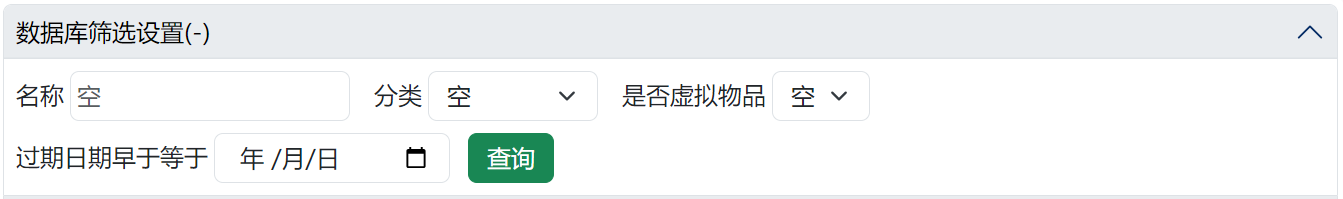
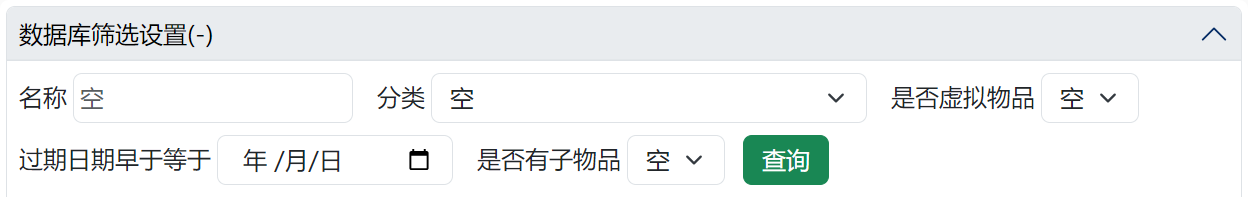
增加了筛选是否有子物品功能

diff --git a/templates/view_items.html b/templates/view_items.html
@@ -49,6 +49,18 @@
                         </div>
                         <div class="col-auto pe-4">
                             <div class="row">
+                                <label for="filter_has_child" class="col col-form-label p-1" data-i18n="filter_has_child">是否有子物品</label>
+                                <div class="col-auto p-0">
+                                    <select class="form-select pt-1 pb-1" id="filter_has_child">
+                                        <option value="-1" selected data-i18n="filter_null">空</option>
+                                        <option value="1" data-i18n="universal_yes">是</option>
+                                        <option value="0" data-i18n="universal_no">否</option>
+                                    </select>
+                                </div>
+                            </div>
+                        </div>
+                        <div class="col-auto pe-4">
+                            <div class="row">
                                 <button class="btn btn-success pt-1 pb-1" type="button" id="filter_db_select" data-i18n="filter_db_select">查询</button>
                             </div>
                         </div>

diff --git a/SQLs/items.py b/SQLs/items.py
@@ -85,23 +85,41 @@ def get_item(i_id):  # 获取物品信息
         return None
     
 
-def get_items_with_filter(name_like, i_class, is_virtual, expiration_time, classes=[]):  # 根据要求筛选符合的items
-    query = "SELECT id,name,class,properties,parent,img,comment,expiration_time FROM items WHERE 1=1"
+def get_items_with_filter(name_like, i_class, is_virtual, expiration_time, has_child, classes=[]):  # 根据要求筛选符合的items
+    query = """
+        SELECT 
+            items.id,
+            items.name,
+            items.class,
+            items.properties,
+            items.parent,
+            items.img,
+            items.comment,
+            items.expiration_time,
+            CASE WHEN father_info.father_id IS NOT NULL THEN 1 ELSE 0 END AS is_father
+        FROM items 
+        LEFT JOIN (
+            SELECT DISTINCT parent AS father_id FROM items
+        ) AS father_info ON items.id = father_info.father_id 
+        WHERE 1=1"""
     params = []
     if name_like != '':
-        query += ' AND name LIKE ?'
+        query += ' AND items.name LIKE ?'
         params.append(f'%{name_like}%')
     if i_class != '':
-        query += ' AND class=?'
+        query += ' AND items.class=?'
         params.append(i_class)
     if is_virtual != -1:
-        query += ' AND is_virtual=?'
+        query += ' AND items.is_virtual=?'
         params.append(is_virtual)
     if expiration_time != '':
-        query += " AND expiration_time<=? AND expiration_time<>''"
+        query += " AND items.expiration_time<=? AND items.expiration_time<>''"
         params.append(expiration_time)
+    if has_child != -1:
+        query += ' AND CASE WHEN father_info.father_id IS NOT NULL THEN 1 ELSE 0 END =?'
+        params.append(has_child)
     if len(classes) != 0:
-        query += ' ORDER BY CASE class'
+        query += ' ORDER BY CASE items.class'
         for class_index in range(len(classes)):
             query += f" WHEN '{classes[class_index]}' THEN {class_index+1}"
         query += ' ELSE 0 END'
@@ -118,7 +136,8 @@ def get_items_with_filter(name_like, i_class, is_virtual, expiration_time, class
                 'parent': i[4],
                 'img': i[5],
                 'comment': i[6],
-                'expiration_time': i[7]
+                'expiration_time': i[7],
+                'has_child': bool(i[8])
             }
         return ret
     except sqlite3.Error as e:

diff --git a/static/py/view_items.py b/static/py/view_items.py
@@ -19,14 +19,20 @@ def get_db_data():
     target_class = request.args.get('target_class', None)
     target_is_virtual = request.args.get('target_is_virtual', None)
     target_expiration_time = request.args.get('target_expiration_time', None)
-    if target_name is None or target_class is None or target_is_virtual is None or target_expiration_time is None:
+    target_has_child = request.args.get('target_has_child', None)
+    if target_name is None or target_class is None or target_is_virtual is None or target_expiration_time is None or target_has_child is None:
         return jsonify({'status': 'error','message': '缺失参数'})
     else:
         if target_class == '':  # 如果没有筛选class，那么将结果按照class排序
             classes = SQL.get_classes()
         else:
             classes = []
-        db_data = SQL.get_items_with_filter(target_name, target_class, int(target_is_virtual), target_expiration_time, classes)
+        db_data = SQL.get_items_with_filter(name_like=target_name, 
+                                            i_class=target_class, 
+                                            is_virtual=int(target_is_virtual), 
+                                            expiration_time=target_expiration_time, 
+                                            has_child=int(target_has_child),
+                                            classes=classes)
         if db_data is None:
             return jsonify({'status': 'error','message': i18n['vi_get_data_failed']})  # '拉取数据失败'
         else:

diff --git a/templates/help.md b/templates/help.md
@@ -42,9 +42,10 @@
 # 使用说明
 
 ## 页面选择
-无论您现在在哪个页面，点击左上角的右箭头标志都可打开页面选择菜单  
 
-![展开页面选择](../static/img/ExpandMenu.png)  
+无论您现在在哪个页面，点击左上角的右箭头标志都可打开页面选择菜单
+
+![展开页面选择](../static/img/ExpandMenu.png)
 
 展开后，总共有四个页面可供选择，分别是①操作区、②物品浏览、③属性管理、④帮助。
 
@@ -171,7 +172,6 @@
 
 ![多选移动](../static/img/MultiMove.gif)
 
-
 ### 快速移动物品
 
 快速移动有三个模式，分别为快速插入、快速吸收和传送门。启用快速移动后，启用侧将只有点击和长按功能，且点击物品不可进入物品，而是响应快速移动功能；长按仍旧是打开查看/更改/删除物品界面。
@@ -200,7 +200,7 @@
 
 ### 数据库筛选设置
 
-总共有四项可供筛选，分别是名称、分类、是否虚拟物品、过期日期早于等于。可选择填写任意项进行筛选。
+总共有四项可供筛选，分别是名称、分类、是否虚拟物品、过期日期早于等于、是否有子物品。可选择填写任意项进行筛选。
 
 ![数据库筛选设置](../static/img/DBFilter.png)
 
@@ -287,4 +287,3 @@
 需要注意的是，在缩减范围时，不能有物品的属性处于新范围外。需要先把会超出新范围的物品的属性改为不超范围后，才可以缩减范围。
 
 点击属性侧的管理按钮，即可对属性进行排序、删除，此时管理按钮会变为完成按钮。完成管理后点击完成按钮即可保存结果。需要注意，即使有物品在使用某属性，仍可将该属性删除。
-

diff --git a/i18n/README_en.md b/i18n/README_en.md
@@ -30,7 +30,7 @@ You can freely add classes and properties for items, making it easier to search 
 ![分类与属性](/i18n/img/README_attributes_en.png)  
 
 5. **🔎Convenience Item Search**  
-You can search items by name, class, whether they are virtual, and expiration date. When searching by class, you can further filter results by properties. The fields displayed after filtering can also be customized.  
+You can search items by name, class, whether they are virtual, expiration date and whether they have children. When searching by class, you can further filter results by properties. The fields displayed after filtering can also be customized.  
 ![物品检索](/i18n/img/README_search_en.png)  
 
 6. **🛜Access Anywhere on Local Network**  
@@ -74,3 +74,7 @@ Feel free to submit an Issue. If it's a problem, please describe what you were d
 ## Sponsorship
 If you like this project, you can scan the QR code below with WeChat to give the author some encouragement. Thank you!  
 <img src="/i18n/img/sponsor.jpg" alt="赞赏" width="300" height="300">
+
+
+## Change Log
+See [CHANGELOG.md](/CHANGELOG.md)

diff --git a/CHANGELOG.md b/CHANGELOG.md
@@ -1,0 +1,18 @@
+# Changelog
+
+All notable changes to this project will be documented in this file.
+
+The format is based on [Keep a Changelog](https://keepachangelog.com/en/1.1.0/),
+and this project adheres to [Semantic Versioning](https://semver.org/spec/v2.0.0.html).
+
+## [Unreleased]
+
+
+## [v1.1.0] - 2025-06-25
+
+### Added  
+
+* 在数据库筛选中增加了“是否有子物品”的筛选。Database filter settings now includes an option to filter by whether an item has child items.
+
+
+## [v1.0.0] - 2025-06-24
